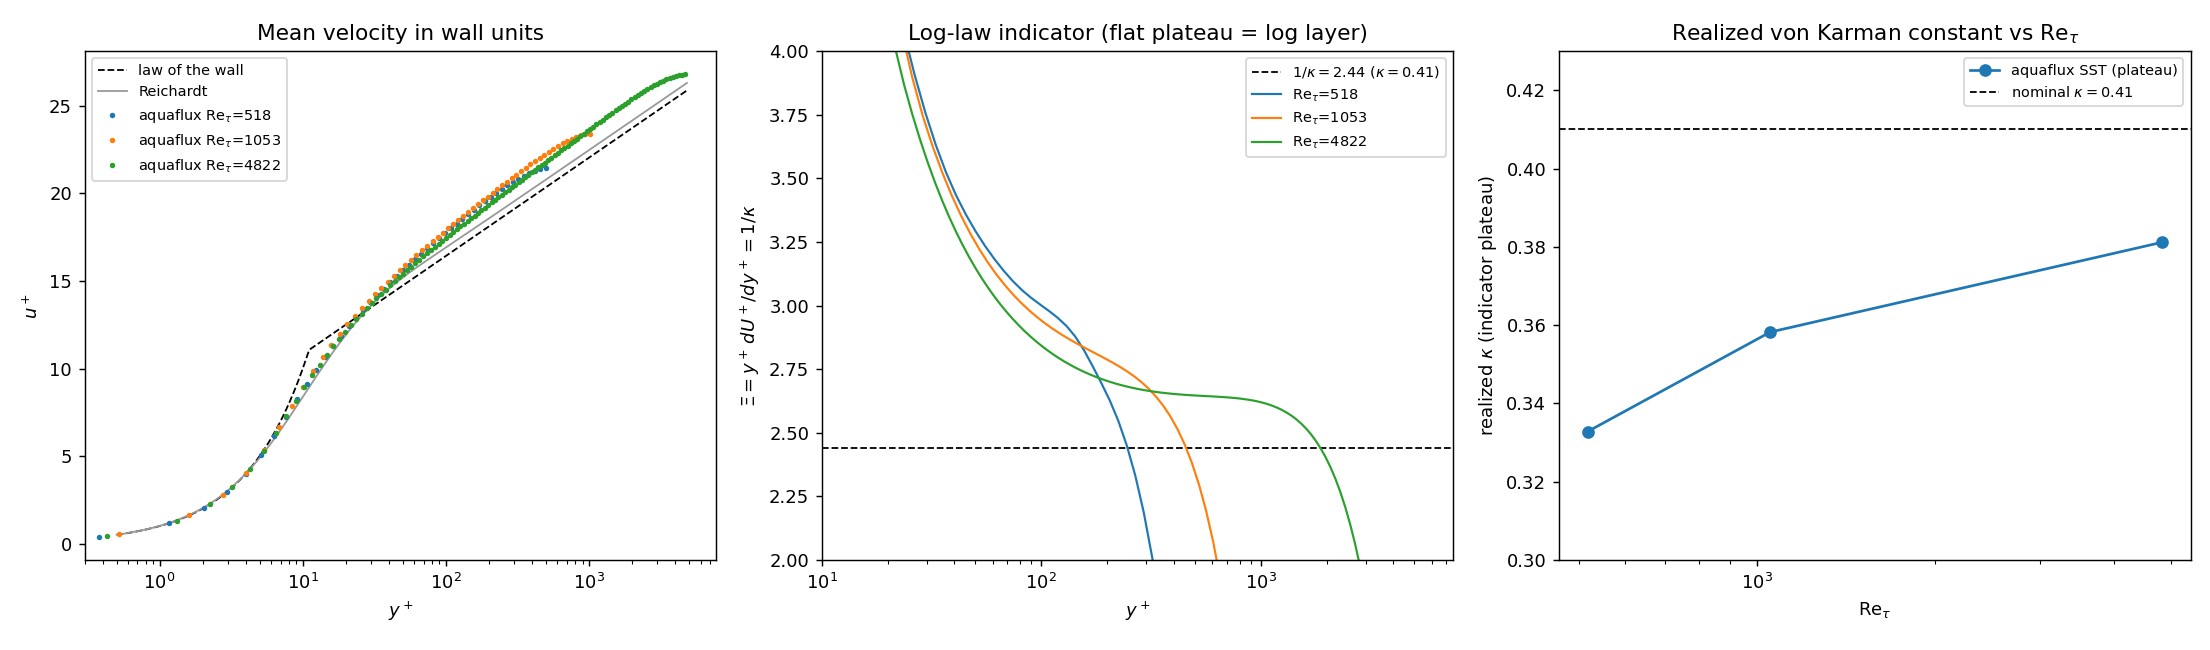
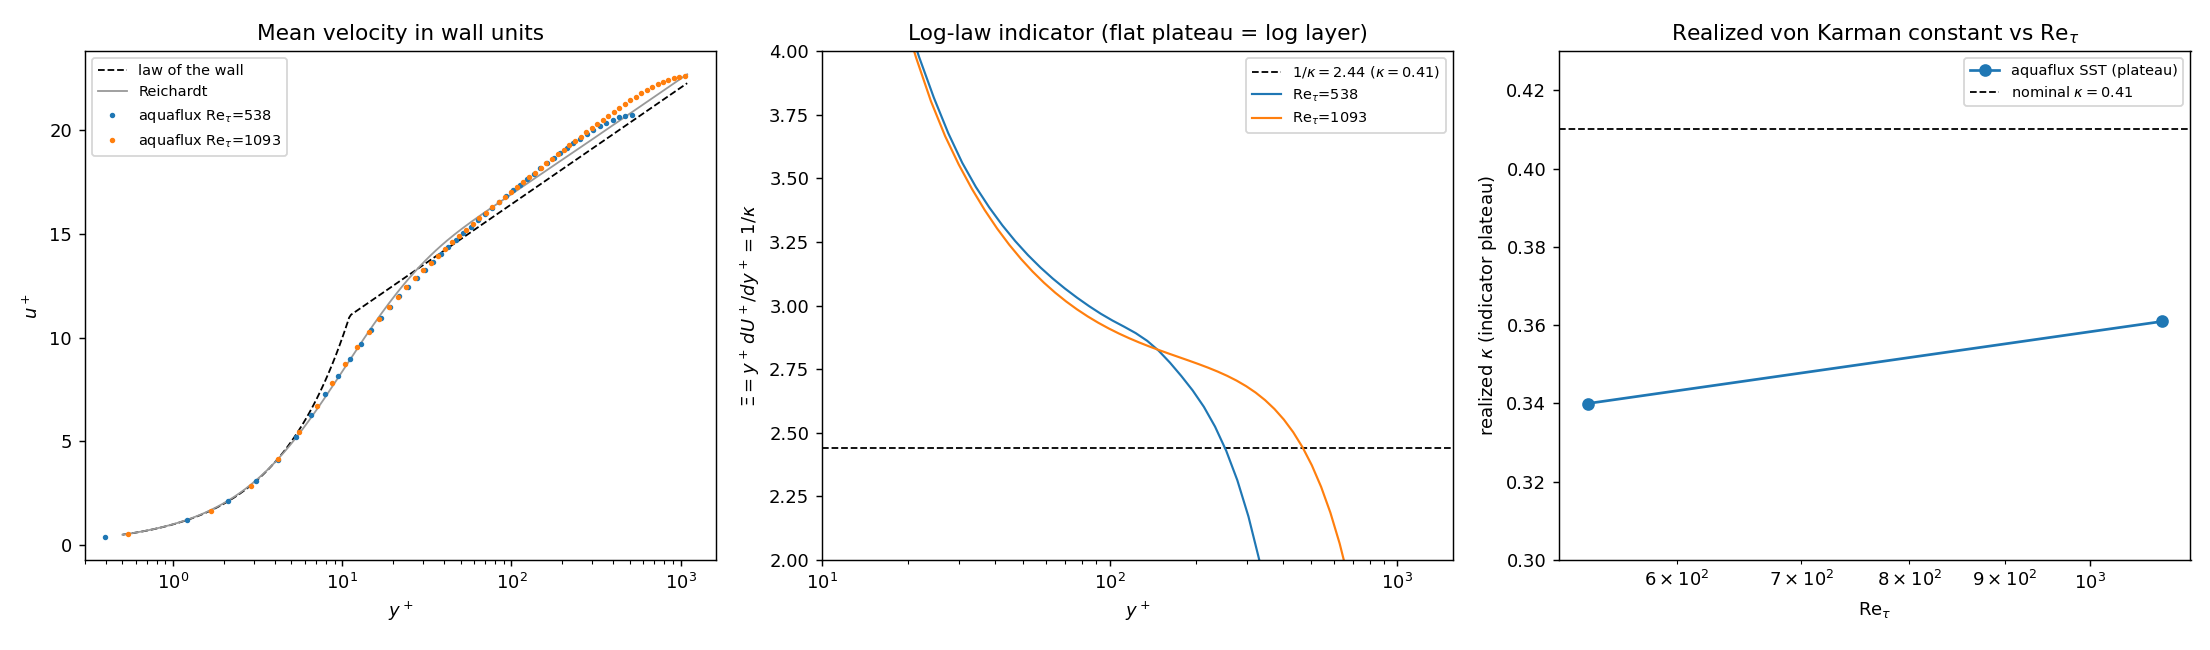
validation(turbulent_channel): converge the study, and stop one failure discarding the rest
The study did not run at all: its first case raised out of the scalar march's
convergence guard, so all three cases produced nothing.

Same starved march the other callers had. From a uniform k the first sweep's
residual is essentially unchanged for ~30 pseudo-transient steps, so the SER
schedule's beta never relaxes and the 40-step budget is gone before descent
begins. Seeding from hybrid_initialize makes it descend from the first step. The
outer loop was over-damped besides, at a relaxation of 0.5 -- half a Picard step
per sweep in a loop that contracts -- so it moves to 0.9 with sweep budgets
raised to suit, matching #101 and #104.

Two of three cases now converge, against none before:

  Re_b     Re_tau   u_tau    Dean     kappa   U_bulk
  20000    538      0.0538   0.0554   0.340   1.0000
  45000    1093     0.0486   0.0501   0.361   1.0000

u_tau sits ~3% under Dean at both Reynolds numbers -- a consistent model-versus-
correlation offset rather than a convergence artifact -- and kappa = 0.340
matches the value #104 validated against OpenFOAM (0.340 aquaflux, 0.343 OF).

The Re_b = 240000 case (ny=224) still does not converge, and it is the *same*
mesh and Reynolds number as the OpenFOAM study's failing high point: ny=224,
growth 1.052, Re_tau ~ 3600. So the two open failures are one failure.

A non-converging case is now recorded and skipped rather than aborting the run,
so one failure no longer discards the cases that did converge nor leaves the
[…]

diff --git a/validation/turbulent_channel/compare.py b/validation/turbulent_channel/compare.py
@@ -38,8 +38,7 @@ from aquaflux.turbulence import (
     SSTModel,
     SSTTurbulence,
     bulk_velocity,
-    inlet_k,
-    inlet_omega,
+    hybrid_initialize,
     scalar_pseudo_transient_solve,
     solve_segregated,
 )
@@ -52,9 +51,9 @@ KAPPA, B_LOG = 0.41, 5.2
 
 # (Re_b, ny, growth, beta0, sweeps) per case; Re_b = U_b H / nu sets nu, the controller finds beta.
 CASES = [
-    dict(Re_b=20000, ny=96, growth=1.09, beta0=0.004, sweeps=70),
-    dict(Re_b=45000, ny=120, growth=1.075, beta0=0.0035, sweeps=80),
-    dict(Re_b=240000, ny=224, growth=1.052, beta0=0.00175, sweeps=110),
+    dict(Re_b=20000, ny=96, growth=1.09, beta0=0.004, sweeps=100),
+    dict(Re_b=45000, ny=120, growth=1.075, beta0=0.0035, sweeps=110),
+    dict(Re_b=240000, ny=224, growth=1.052, beta0=0.00175, sweeps=150),
 ]
 
 
@@ -82,8 +81,6 @@ def solve_case(Re_b, ny, growth, beta0, sweeps):
     )
     geom = mesh.geometry()
     model = SSTModel()
-    k_in = float(inlet_k(jnp.array(U_B), 0.05))
-    omega_in = float(inlet_omega(jnp.array(k_in), 0.1, model))
     momentum = MomentumContinuity.build(
         mesh,
         geom,
@@ -113,20 +110,24 @@ def solve_case(Re_b, ny, growth, beta0, sweeps):
     def solve_flow(mom, state):
         return NewtonSolver(iterations=15, solver=direct).solve(mom.residual, state)
 
-    warm = jnp.zeros((mesh.n_cells, 2)).at[:, 0].set(U_B)  # warm start at the target bulk velocity
-    flow0 = momentum.pack(warm, jnp.zeros(mesh.n_cells))
+    # Seed from the hybrid IC. A uniform k leaves the first sweep's residual essentially unchanged
+    # for ~30 pseudo-transient steps, so the SER schedule's beta never relaxes and the scalar march
+    # exhausts its budget before the residual moves; the hybrid start descends from the first step.
+    flow0, k0, omega0 = hybrid_initialize(momentum, turbulence)
     t0 = time.time()
     flow, _, _ = solve_segregated(
         momentum,
         turbulence,
         solve_flow,
-        scalar_pseudo_transient_solve(max_steps=40),
+        # A backstop, not a cost: the solver exits on tolerance, so a generous cap only bounds
+        # the worst case rather than truncating a march mid-descent.
+        scalar_pseudo_transient_solve(max_steps=200),
         flow0,
-        jnp.full(mesh.n_cells, k_in),
-        jnp.full(mesh.n_cells, omega_in),
+        k0,
+        omega0,
         density=RHO,
         max_sweeps=sweeps,
-        relaxation=0.5,
+        relaxation=0.9,
         bulk_velocity_target=U_B,  # the mass-flow controller drives the body force to hit U_b
         flow_direction=0,
         bulk_velocity_gain=0.5,
@@ -211,7 +212,7 @@ def _figures(results):
     print(f"wrote {FIGS / 'law_of_the_wall.png'}")
 
 
-def _report(results):
+def _report(results, failed=()):
     lines = [
         "# Turbulent channel: aquaflux k-omega SST vs the law of the wall",
         "",
@@ -275,15 +276,29 @@ def _report(results):
         "mesh into aquaflux via `read_openfoam`, and compare the profiles cell-for-cell). That",
         "comparison is the next step.",
     ]
+    for case, exc in failed:
+        lines += [
+            "",
+            f"- **Re_b = {case['Re_b']} (ny = {case['ny']})**: the segregated solve did not converge "
+            f"(`{exc}`) and is omitted above. Tracked in issue #99.",
+        ]
     (HERE / "report.md").write_text("\n".join(lines) + "\n")
     print(f"wrote {HERE / 'report.md'}")
 
 
 def main():
-    results = []
+    results, failed = [], []
     for case in CASES:
         print(f"solving Re_b={case['Re_b']} (ny={case['ny']}) ...", flush=True)
-        r = solve_case(**case)
+        # A case whose segregated solve does not converge is recorded and skipped rather than
+        # aborting: one failure should not discard the cases that did converge, nor leave the
+        # tracked report and figures describing an earlier run.
+        try:
+            r = solve_case(**case)
+        except Exception as exc:  # any solver failure is reported, not swallowed
+            failed.append((case, type(exc).__name__))
+            print(f"  DID NOT CONVERGE ({type(exc).__name__}) -- skipped", flush=True)
+            continue
         print(
             f"  Re_tau={r['Re_tau']:.0f}  u_tau={r['u_tau']:.4f} (Dean {r['u_tau_dean']:.4f})  "
             f"U_bulk={r['u_bulk']:.4f}  kappa_plateau={r['kappa_plateau']:.3f}  ({r['dt']:.0f}s)",
@@ -291,7 +306,7 @@ def main():
         )
         results.append(r)
     _figures(results)
-    _report(results)
+    _report(results, failed)
 
 
 if __name__ == "__main__":

diff --git a/validation/turbulent_channel/report.md b/validation/turbulent_channel/report.md
@@ -20,9 +20,8 @@ is `u_tau h / nu`. Molecular wall stress `tau_w = nu (du/dy)|_wall` from the nea
 
 | Re_tau | u_tau | u_tau (Dean) | first y+ | realized kappa (plateau) |
 |---|---|---|---|---|
-| 518 | 0.0518 | 0.0554 | 0.38 | 0.333 |
-| 1053 | 0.0468 | 0.0501 | 0.52 | 0.358 |
-| 4822 | 0.0402 | 0.0406 | 0.43 | 0.381 |
+| 538 | 0.0538 | 0.0554 | 0.39 | 0.340 |
+| 1093 | 0.0486 | 0.0501 | 0.54 | 0.361 |
 
 See `figures/law_of_the_wall.png`.
 
@@ -55,3 +54,5 @@ gap -- is best settled by a **direct same-model, same-mesh comparison against Op
 (the pattern used in `validation/skewed_cavity`: solve an OpenFOAM channel tutorial, read its
 mesh into aquaflux via `read_openfoam`, and compare the profiles cell-for-cell). That
 comparison is the next step.
+
+- **Re_b = 240000 (ny = 224)**: the segregated solve did not converge (`EquinoxRuntimeError`) and is omitted above. Tracked in issue #99.